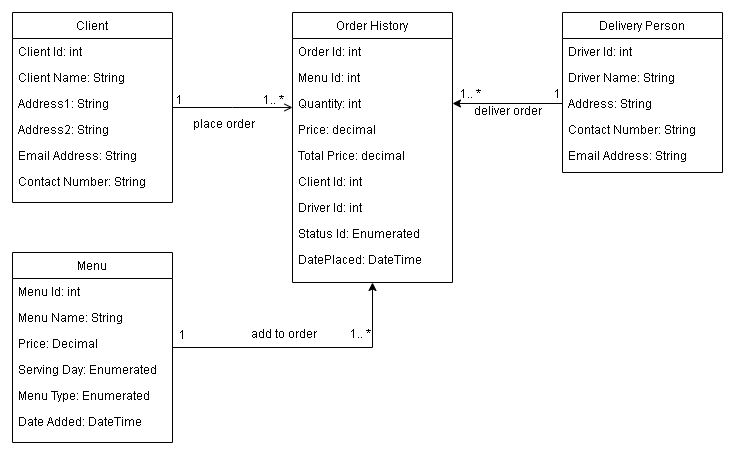
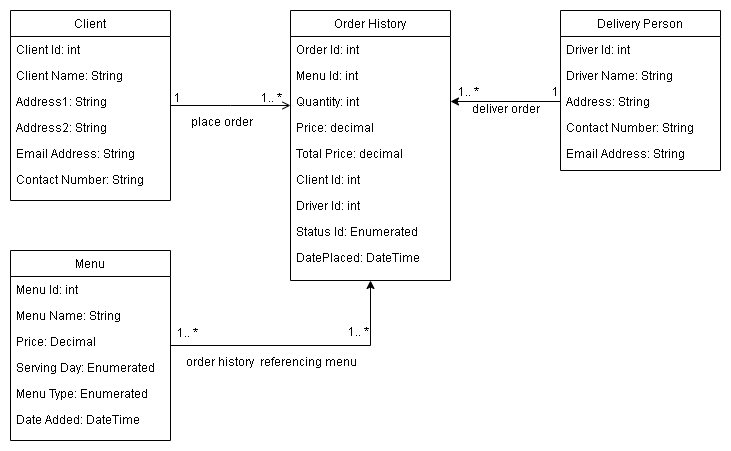
Worked on P4's UML and adding more orderhistory data. P5 boilerplate project is added

diff --git a/P5_John Oliver/step1.js b/P5_John Oliver/step1.js
@@ -1,0 +1,22 @@
+// Initial values from the arrays below to form a quote
+var beginning = ["Hi! ","Yo! ","Hey "]
+var middle = ["What's up ","What up? ","How yo doin? "]
+var end = ["Dawg","Bro","Kid"]
+
+// Quote placeholder for quotes that will be generated from the beginning, middle, and end arrays
+var quote = ""
+
+
+
+// looping three times to randomly generate sentences
+for(var i = 0; i < 3; i++)
+{
+    var index_0 = Math.floor(Math.random() * 3);
+    var index_1 = Math.floor(Math.random() * 3);
+    var index_2 = Math.floor(Math.random() * 3);
+    quote = beginning[index_0] + middle[index_1] + end[index_2];
+}
+
+// Generated sentence
+console.log(quote);
+
